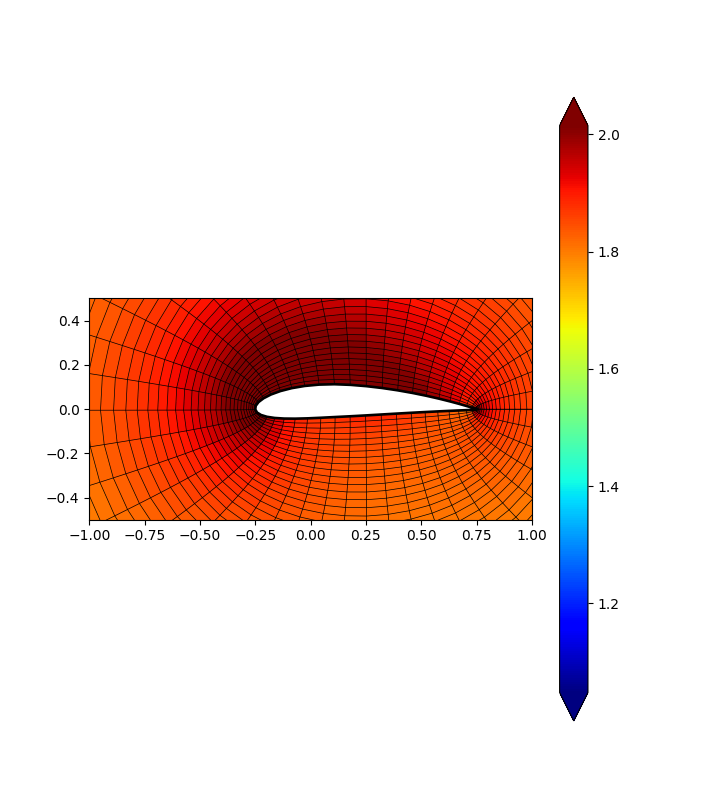
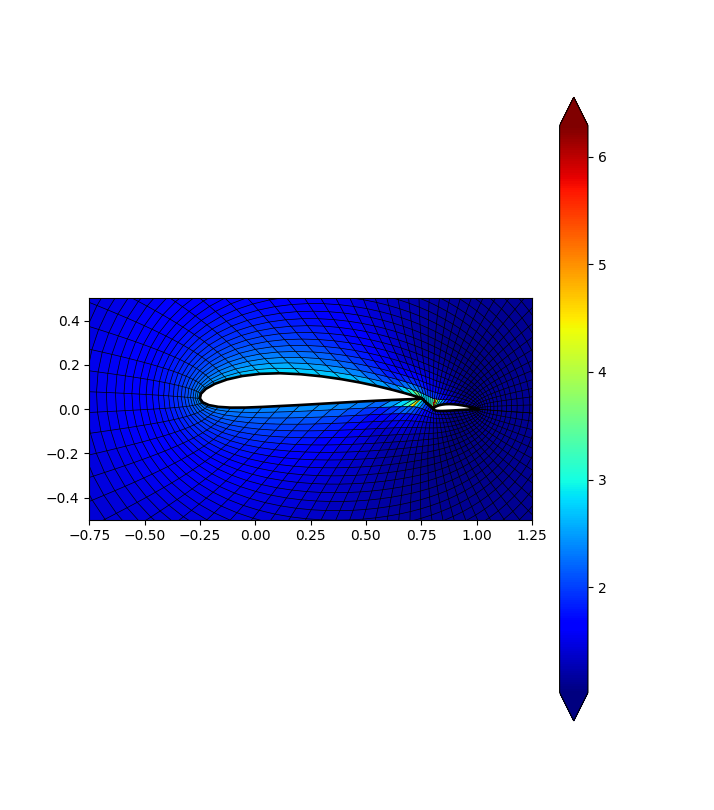
se termina calidad malla O con flap

diff --git a/Escrito/tesis.tex b/Escrito/tesis.tex
@@ -3752,10 +3752,14 @@
     identificar el efecto de cada uno de ellos en la calidad de la malla. Las
     figuras~\ref{fig:naca4415_aspect} y~\ref{fig:naca4415_skew} se muestran el
     aspect ratio y el skew de las celdas, respectivamente. El primer cambio es
-    el aumento de la dimensión $M$ de la malla desde $M=45$ a $M=65$.
+    el aumento de la dimensión $M$ de la malla desde $M=45$ a $M=65$. El segundo
+    cambio implica un incremento en el número de nodos en la dirección del eje
+    $\eta$, es decir, aumentando el número de nodos desde $N=45$ a $N=65$. Por
+    último se cambia el valor de la variable $aa_m$ correspondiente a la
+    ecuación de Poisson, de $aa_m = 20.5$ a $aa_m=21.5$.
 
     % relación (1:1) y (2:1) [x:y]
-    \begin{figure}[htbp!]
+    \begin{figure}[htp!]
         \centering
 
         \subfigure[Vista
@@ -3775,7 +3779,7 @@
         \caption[Aspect ratio para malla tipo O con perfil NACA4415]{Aspect
           ratio para malla tipo O con perfil NACA4415}
     \end{figure}
-    \begin{figure}[htbp!]\ContinuedFloat
+    \begin{figure}[htp!]\ContinuedFloat
         \centering
         \subfigure[Vista
           Completa $N=65$]{\label{fig:naca4415_n_65_aspect_far}\includegraphics[keepaspectratio,
@@ -3785,10 +3789,10 @@
             width=87mm]{./Imagenes/naca4415_n_65_aspect_close}}
 
         \subfigure[Vista
-          Completa $N=65$]{\label{fig:naca4415_aa_215_aspect_far}\includegraphics[keepaspectratio,
+          Completa $a=21.5$]{\label{fig:naca4415_aa_215_aspect_far}\includegraphics[keepaspectratio,
             width=87mm]{./Imagenes/naca4415_aa_215_aspect_far}}
         \subfigure[Acercamiento a
-          perfil $N=65$]{\label{fig:naca4415_aa_215_aspect_close}\includegraphics[keepaspectratio,
+          perfil $a=21.5$]{\label{fig:naca4415_aa_215_aspect_close}\includegraphics[keepaspectratio,
             width=87mm]{./Imagenes/naca4415_aa_215_aspect_close}}
 
         \caption[Aspect ratio para malla tipo O con perfil NACA4415]{Aspect
@@ -3797,7 +3801,7 @@
     \end{figure}
 
     % relación (1:1) y (2:1) [x:y]
-    \begin{figure}[htbp!]
+    \begin{figure}[htp!]
         \centering
 
         \subfigure[Vista
@@ -3817,7 +3821,7 @@
         \caption[Skew para malla tipo O con perfil NACA4415]{Skew para malla
           tipo O con perfil NACA4415}
     \end{figure}
-    \begin{figure}[htbp!]\ContinuedFloat
+    \begin{figure}[htp!]\ContinuedFloat
         \centering
         \subfigure[Vista
           Completa $N=65$]{\label{fig:naca4415_n_65_skew_far}\includegraphics[keepaspectratio,
@@ -3825,6 +3829,101 @@
         \subfigure[Acercamiento a
           perfil $N=65$]{\label{fig:naca4415_n_65_skew_close}\includegraphics[keepaspectratio,
             width=87mm]{./Imagenes/naca4415_n_65_skew_close}}
+
+        \subfigure[Vista
+          Completa $a=21.5$]{\label{fig:naca4415_aa_215_skew_far}\includegraphics[keepaspectratio,
+            width=87mm]{./Imagenes/naca4415_aa_215_skew_far}}
+        \subfigure[Acercamiento a
+          perfil $a=21.5$]{\label{fig:naca4415_aa_215_skew_close}\includegraphics[keepaspectratio,
+            width=87mm]{./Imagenes/naca4415_aa_215_skew_close}}
+
+        \caption[Skew para malla tipo O con perfil NACA4415]{Skew para malla
+          tipo O con perfil NACA4415}
+        \label{fig:naca4415_skew}
+    \end{figure}
+
+    \paragraph*{}
+    El siguiente caso corresponde al descrito en la
+    tabla~\ref{tabla_o_naca_4415_flap}, al cual se le realizan los mismos
+    incrementos, el valor de $M$ cambia de $M=83$ a $M=103$ y el valor de
+    $aa_m$ de $aa_m = 20.5$ a $aa_m = 21.5$.
+
+    \begin{figure}[htp!]
+        \centering
+
+        \subfigure[Vista
+          Completa]{\label{fig:naca4415_flap_aspect_far}\includegraphics[keepaspectratio,
+            width=87mm]{./Imagenes/naca4415_flap_aspect_far}}
+        \subfigure[Acercamiento a
+          perfil]{\label{fig:naca4415_flap_aspect_close}\includegraphics[keepaspectratio,
+            width=87mm]{./Imagenes/naca4415_flap_aspect_close}}
+
+        \subfigure[Vista
+          Completa $M=103$]{\label{fig:naca4415_flap_m_103_aspect_far}\includegraphics[keepaspectratio,
+            width=87mm]{./Imagenes/naca4415_flap_m_103_aspect_far}}
+        \subfigure[Acercamiento a
+          perfil $M=103$]{\label{fig:naca4415_flap_m_103_aspect_close}\includegraphics[keepaspectratio,
+            width=87mm]{./Imagenes/naca4415_flap_m_103_aspect_close}}
+
+        \caption[Aspect ratio para malla tipo O con perfil y flap NACA4415]{Aspect
+          ratio para malla tipo O con perfil y flap NACA4415}
+    \end{figure}
+    \begin{figure}[htp!]\ContinuedFloat
+        \centering
+        \subfigure[Vista
+          Completa $N=65$]{\label{fig:naca4415_flap_n_65_aspect_far}\includegraphics[keepaspectratio,
+            width=87mm]{./Imagenes/naca4415_flap_n_65_aspect_far}}
+        \subfigure[Acercamiento a
+          perfil $N=65$]{\label{fig:naca4415_flap_n_65_aspect_close}\includegraphics[keepaspectratio,
+            width=87mm]{./Imagenes/naca4415_flap_n_65_aspect_close}}
+
+        \subfigure[Vista
+          Completa $a=21.5$]{\label{fig:naca4415_flap_aa_215_aspect_far}\includegraphics[keepaspectratio,
+            width=87mm]{./Imagenes/naca4415_flap_aa_215_aspect_far}}
+        \subfigure[Acercamiento a
+          perfil $a=21.5$]{\label{fig:naca4415_flap_aa_215_aspect_close}\includegraphics[keepaspectratio,
+            width=87mm]{./Imagenes/naca4415_flap_aa_215_aspect_close}}
+
+        \caption[Aspect ratio para malla tipo O con perfil y flap NACA4415]{Aspect
+          ratio para malla tipo O con perfil y flap NACA4415}
+        \label{fig:naca4415_flap_aspect}
+    \end{figure}
+
+    \begin{figure}[htp!]
+        \centering
+
+        \subfigure[Vista
+          Completa]{\label{fig:naca4415_flap_skew_far}\includegraphics[keepaspectratio,
+            width=87mm]{./Imagenes/naca4415_flap_skew_far}}
+        \subfigure[Acercamiento a
+          perfil]{\label{fig:naca4415_flap_skew_close}\includegraphics[keepaspectratio,
+            width=87mm]{./Imagenes/naca4415_flap_skew_close}}
+
+        \subfigure[Vista
+          Completa $M=103$]{\label{fig:naca4415_flap_m_103_skew_far}\includegraphics[keepaspectratio,
+            width=87mm]{./Imagenes/naca4415_flap_m_103_skew_far}}
+        \subfigure[Acercamiento a
+          perfil $M=103$]{\label{fig:naca4415_flap_m_103_skew_close}\includegraphics[keepaspectratio,
+            width=87mm]{./Imagenes/naca4415_flap_m_103_skew_close}}
+
+        \caption[Skew para malla tipo O con perfil NACA4415]{Skew para malla
+          tipo O con perfil NACA4415}
+    \end{figure}
+    \begin{figure}[htp!]\ContinuedFloat
+        \centering
+        \subfigure[Vista
+          Completa $N=65$]{\label{fig:naca4415_flap_n_65_skew_far}\includegraphics[keepaspectratio,
+            width=87mm]{./Imagenes/naca4415_flap_n_65_skew_far}}
+        \subfigure[Acercamiento a
+          perfil $N=65$]{\label{fig:naca4415_flap_n_65_skew_close}\includegraphics[keepaspectratio,
+            width=87mm]{./Imagenes/naca4415_flap_n_65_skew_close}}
+
+        \subfigure[Vista
+          Completa $a=21.5$]{\label{fig:naca4415_flap_aa_215_skew_far}\includegraphics[keepaspectratio,
+            width=87mm]{./Imagenes/naca4415_flap_aa_215_skew_far}}
+        \subfigure[Acercamiento a
+          perfil $a=21.5$]{\label{fig:naca4415_flap_aa_215_skew_close}\includegraphics[keepaspectratio,
+            width=87mm]{./Imagenes/naca4415_flap_aa_215_skew_close}}
 
         \caption[Skew para malla tipo O con perfil NACA4415]{Skew para malla
           tipo O con perfil NACA4415}

diff --git a/main_aspect.py b/main_aspect.py
@@ -30,7 +30,7 @@ en el caso de malla tipo O, coincide con el número de puntos del perfil
 N = 45 # 37 # 60
 union = 6
 
-airfoil_points = 45 # 41
+airfoil_points = 35 # 41
 
 if malla == 'C':
     points = airfoil_points // 3 #* 2
@@ -47,10 +47,10 @@ R = 20 * c
 
 perfil = airfoil.NACA4(m, p, t, c)
 perfil.create_sin(points)
-# flap = airfoil.NACA4(m, p, t, 0.2 * c, number=2)
-# flap.create_sin(points)
+flap = airfoil.NACA4(m, p, t, 0.2 * c, number=2)
+flap.create_sin(points)
 # flap.rotate(15)
-# perfil.join(flap, dx=0.055, dy=0.05, union=union)
+perfil.join(flap, dx=0.055, dy=0.05, union=union)
 # perfil.rotate(3)
 
 if malla == 'O':
@@ -58,6 +58,8 @@ if malla == 'O':
 elif malla == 'C':
     mallaNACA = mesh_c.mesh_C(R, N, perfil)
 
+print('M = ' + str(mallaNACA.M))
+print('N = ' + str(mallaNACA.N))
 # mallaNACA.gen_Laplace(metodo='SOR')
 mallaNACA.gen_Poisson(metodo='SOR', omega=1.3, aa=21.5, cc=6.5, linea_eta=0)
 print('after laplace')
@@ -98,12 +100,12 @@ aspect_max = np.nanmax(aspect)
 skew_min = np.nanmin(skew)
 skew_max = np.nanmax(skew)
 
-aspect_min = 1.04805
-aspect_max = 2.01482
+aspect_min = 1.0221
+aspect_max = 6.2893
 skew_min = 0.99999
-skew_max = 0.86711
+skew_max = 0.1046
 
-limits = [[-20.5, 20.5, -20.5, 20.5], [-1., 1, -0.5, 0.5],
+limits = [[-20.5, 20.5, -20.5, 20.5], [-0.75, 1.25, -0.5, 0.5],
             [0.91, 1.01, -0.025, 0.025]]
 for limit in limits:
     fig = plt.figure('malla_aspect')
